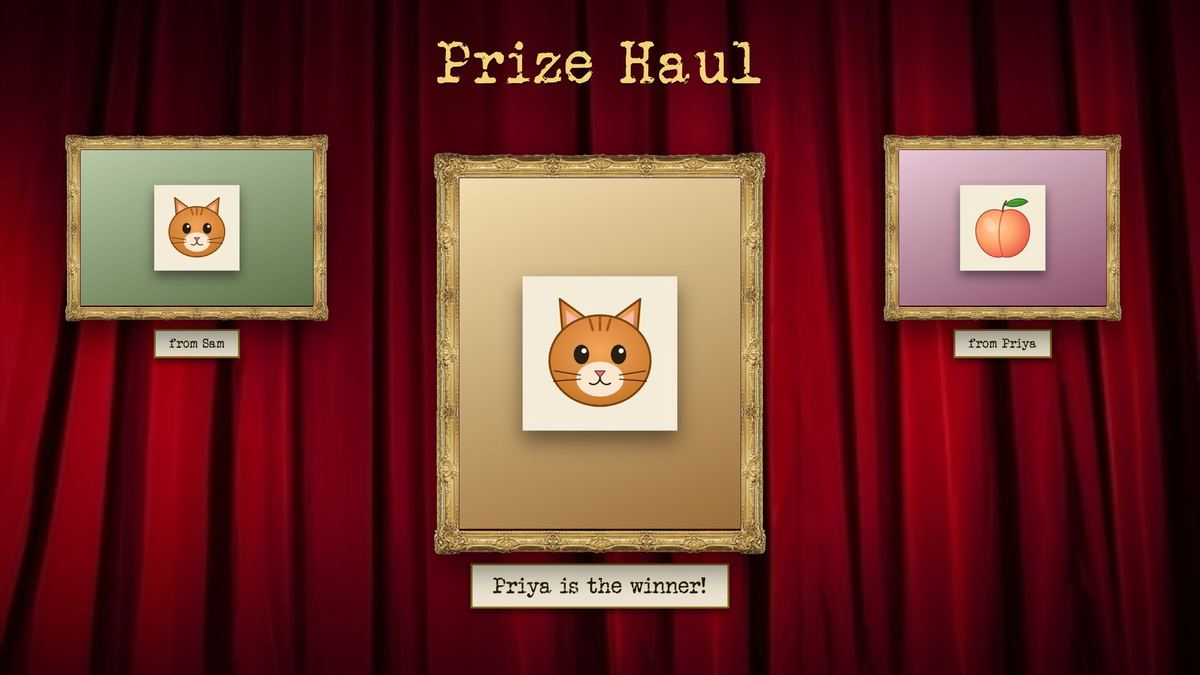
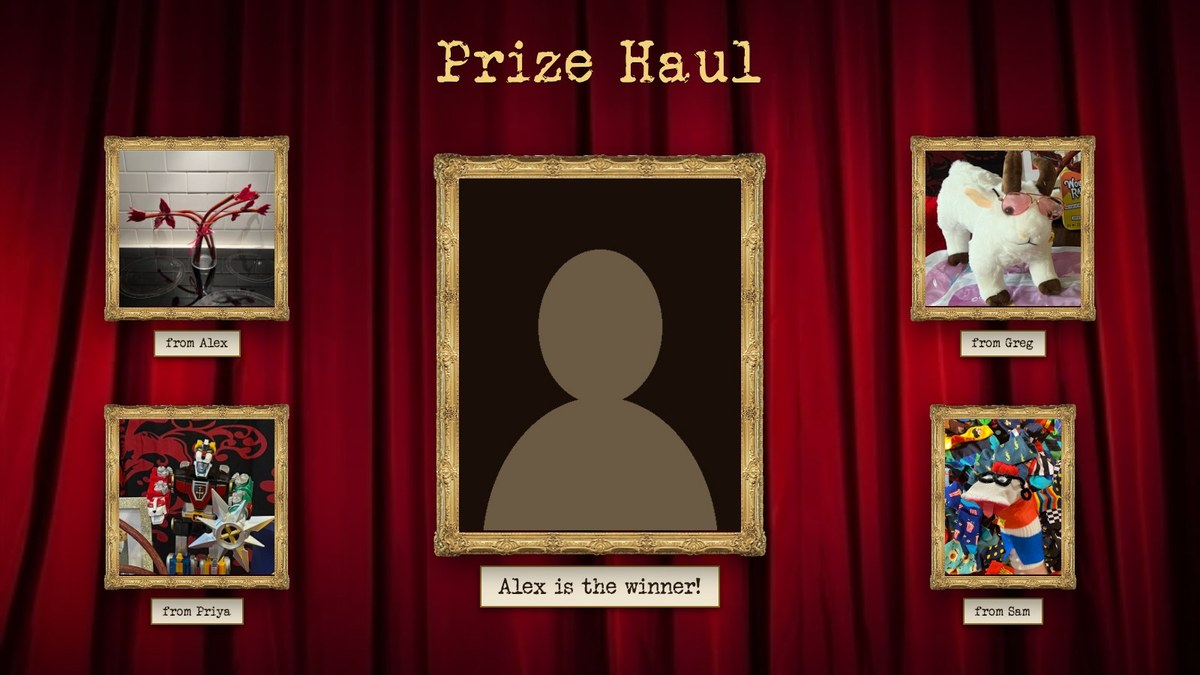
Showcase: the Prize Haul from the ABCD party
Claude-Session: https://claude.ai/code/session_01CSLvgAZ3J4QgTUxWWRTrZg

diff --git a/docs/guest-shots/shots.tsx b/docs/guest-shots/shots.tsx
@@ -46,7 +46,7 @@ function build() {
   const checkedIn = new Set(arriving ? ids.filter((id) => id !== "sam") : ids);
   const contestants = Object.fromEntries(ids.map((id, i) => [id, {
     name: people[id], order: i,
-    ...(!(shot === "checkin-headshot" && id === who) && (id !== "tom" || shot.startsWith("tv-scores")) ? { photo: face("#6b5a44") } : {}),
+    ...(shot.endsWith("haul") ? { photo: "/docs/guest-shots/faces/silhouette.jpg" } : !(shot === "checkin-headshot" && id === who) && (id !== "tom" || shot.includes("scores") || shot.endsWith("haul")) ? { photo: face("#6b5a44") } : {}),
     ...(checkedIn.has(id) && !arriving ? { uid: id } : {}),
   }]));
   if (arriving) for (const id of checkedIn) contestants[id]!.uid = id;
@@ -101,11 +101,12 @@ function build() {
       g.prize = { photos: PRIZE_PHOTOS, presented: { sam: true } };
       break;
     // The scoreboard on the big screen, before and after the host updates it with the prize task's points.
-    case "tv-scores-before": case "tv-scores": {
-      picked(); set("display", { step: "scoreboard" }); set("begun", true);
+    case "tv-scores-before": case "tv-scores": case "tv-haul": case "host-haul": {
+      picked(); set("display", { step: shot.endsWith("haul") ? "haul" : "scoreboard" }); set("begun", true);
       const t1 = { alex: 4, greg: 2, mei: 3, priya: 5, sam: 3, tom: 1 }, t2 = { alex: 5, greg: 3, mei: 2, priya: 2, sam: 4, tom: 3 }, t3 = { alex: 5, greg: 4, mei: 2, priya: 4, sam: 5, tom: 1 };
       Object.assign(tasks.t1 as object, { scores: t1 }); Object.assign(tasks.t2 as object, { scores: t2 }); Object.assign(tasks.t3 as object, { scores: t3 });
-      (session.scoreboard as { shown?: unknown }).shown = shot === "tv-scores" ? { t1, t2, t3 } : { t1, t2 };
+      (session.scoreboard as { shown?: unknown }).shown = shot === "tv-scores-before" ? { t1, t2 } : { t1, t2, t3 };
+      if (shot.endsWith("haul")) { (session.scoreboard as { final?: boolean }).final = true; g.prize = { photos: PRIZE_PHOTOS, presented: { sam: true, alex: true, greg: true, priya: true } }; }
       break;
     }
     case "checkin-rules": case "checkin-pile": break;
@@ -117,7 +118,7 @@ function build() {
 const { session, secret } = build();
 if (shot.startsWith("host-")) { (session as Record<string, unknown>).controllerUid = "host"; (session as Record<string, unknown>).hostUid = "owner"; }
 // On the noisemaster host page everyone has their secret task, and has looked, so the ✉ has no dot.
-if (shot === "host-noisemaster" || shot === "host-prize" || shot === "host-points" || shot === "host-run") { Object.assign(secret.assigned as object, SECRETS); secret.seen = Object.fromEntries(Object.keys(people).map((id) => [id, true])); }
+if (shot === "host-noisemaster" || shot === "host-prize" || shot === "host-points" || shot === "host-run" || shot === "host-haul") { Object.assign(secret.assigned as object, SECRETS); secret.seen = Object.fromEntries(Object.keys(people).map((id) => [id, true])); }
 (window as unknown as { __uid: string }).__uid = who;
 const joined = shot !== "checkin-list";
 localStorage.clear();
@@ -129,7 +130,7 @@ if (joined && shot.startsWith("checkin")) {
   (session.scoreboard as { contestants: Record<string, { uid?: string }> }).contestants[who]!.uid = who;
 }
 if (shot === "checkin-list" || shot === "checkin-confirm") localStorage.setItem("ba.playCode", shot === "checkin-list" ? "" : "");
-if (shot.startsWith("host-")) { localStorage.setItem("ba.remoteCode", CODE); localStorage.setItem("ba.hostTab", JSON.stringify(shot === "host-run" ? { view: "show" } : shot === "host-secret" ? { view: "tasks" } : shot === "host-prize" || shot === "host-points" ? { view: "task", task: "t3" } : { view: "task", task: "t5" })); }
+if (shot.startsWith("host-")) { localStorage.setItem("ba.remoteCode", CODE); localStorage.setItem("ba.hostTab", JSON.stringify(shot === "host-run" || shot === "host-haul" ? { view: "show" } : shot === "host-secret" ? { view: "tasks" } : shot === "host-prize" || shot === "host-points" ? { view: "task", task: "t3" } : { view: "task", task: "t5" })); }
 seed({ sessions: { [CODE]: session }, secretTasks: { [CODE]: secret }, noisemasterSecrets: { [CODE]: { board: BOARD } } });
 if (shot === "checkin-list" || shot === "checkin-confirm") history.replaceState(null, "", `?code=${CODE}&shot=${shot}`);
 

diff --git a/docs/showcase/index.html b/docs/showcase/index.html
@@ -283,12 +283,18 @@ h1, h2 { font-family: var(--typewriter); font-weight: normal; letter-spacing: 0.
     <header>
       <span class="step">5 · The Prize Haul</span>
       <h2>The winner takes the lot.</h2>
-      <p>At the end of the night the winner goes up in the middle, with every prize hung around them and a placard saying who brought it.</p>
+      <p>When the host calls the winner, they go up in the middle of the TV with every prize hung around them and a placard saying who brought it.</p>
     </header>
     <figure class="tv">
-      <div class="frame"><img src="img/tv-haul.jpg" width="1200" height="675" alt="Prize Haul on the TV: the winner in the large centre frame captioned Priya is the winner!, with prizes from Sam and Priya hung either side."></div>
-      <figcaption class="caption">Priya is the winner!</figcaption>
+      <div class="frame"><img src="img/tv-haul.jpg" width="1200" height="675" alt="Prize Haul on the TV: Alex in the large centre frame captioned Alex is the winner!, with the prizes from Alex, Greg, Priya and Sam hung either side: jerky flowers, a goat in pink sunglasses, a Voltron toy and a sock puppet."></div>
+      <figcaption class="caption">Alex is the winner!</figcaption>
     </figure>
+    <div class="phones" style="max-width:52%;margin-inline:auto">
+      <figure>
+        <div class="phone"><img src="img/p-haul-host.jpg" width="520" height="480" alt="The host's phone: on the big screen the prize haul, a gold Lower the curtain button and a link back to the scoreboard."></div>
+        <figcaption class="caption">The host shows the haul</figcaption>
+      </figure>
+    </div>
   </section>
 
   <section class="signoff">

diff --git a/docs/screens/README.md b/docs/screens/README.md
@@ -30,6 +30,8 @@ Guest phone (`/play`, 390px wide), redrawn on 2026-10-18 in the host remote's la
 | `points-host-given.jpg` | Host phone on the Prize task: Sam's prize on the big screen and the Points rows, four guests already scored (taken 2026-10-18 from the ABCD party) |
 | `scores-main-before.jpg` | Main screen: the scoreboard before the host updates it, six wax seals showing the totals so far (taken 2026-10-18 from the ABCD party, silhouette headshots) |
 | `scores-main-after.jpg` | Main screen: the same scoreboard after the update with the Prize task's points, seals ticked up and everyone in their new order, the leader's frame enlarged (taken 2026-10-18 from the ABCD party) |
+| `haul-main-winner.jpg` | Main screen: the Prize Haul with Alex in the centre as "Alex is the winner!" and the four prize photos hung around him with "from" placards (taken 2026-10-18 from the ABCD party, silhouette headshot) |
+| `haul-host-up.jpg` | Host phone with the haul on the big screen: "On the big screen: the prize haul", gold "Lower the curtain", "Back to the scoreboard" as a link (taken 2026-10-18 from the ABCD party) |
 | `main-secret-tasks.jpg` | Secret Tasks on the big screen: "What was Sam's secret?" over the opened envelope, the task on its paper (2026-10-18) |
 | `guest-secret-open.jpg` | Sam's opened envelope on the guest phone: the task on its paper, "Seal it again", the to-do list with the secret envelope "picked" (2026-10-18) |
 | `guest-noisemaster-watch.jpg` | Watching a Noisemaster turn: no card, "Alex is at the soundboard. Watch the big screen." |
